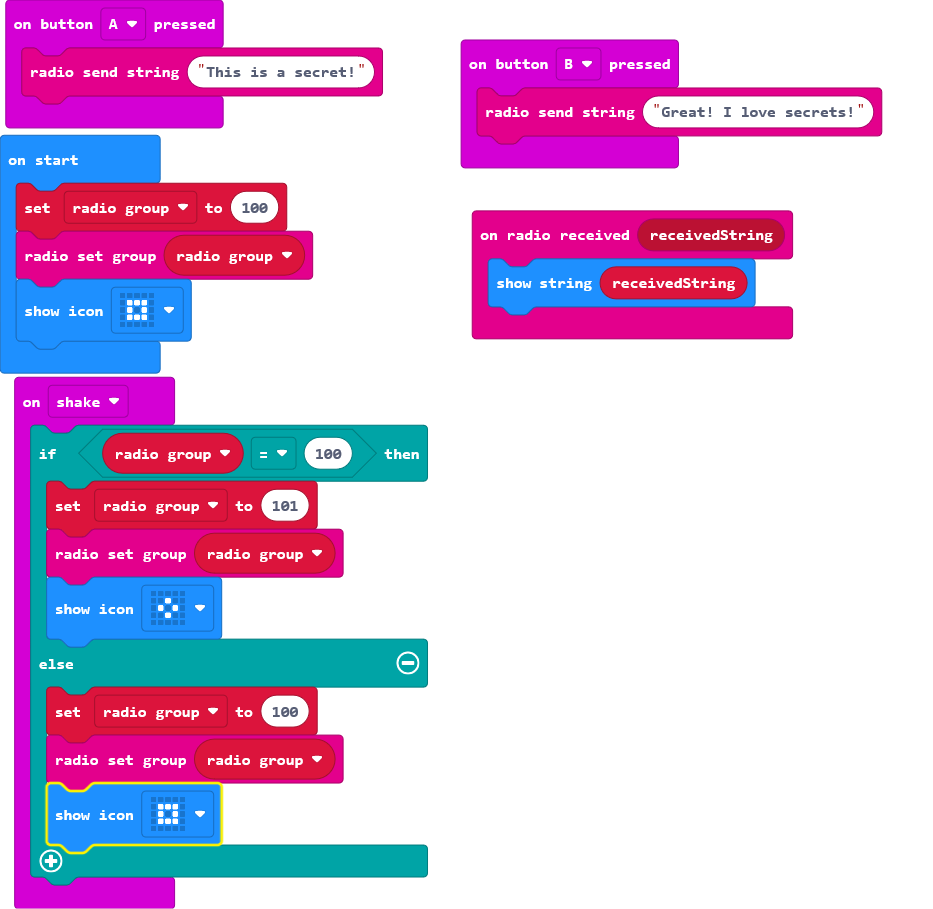
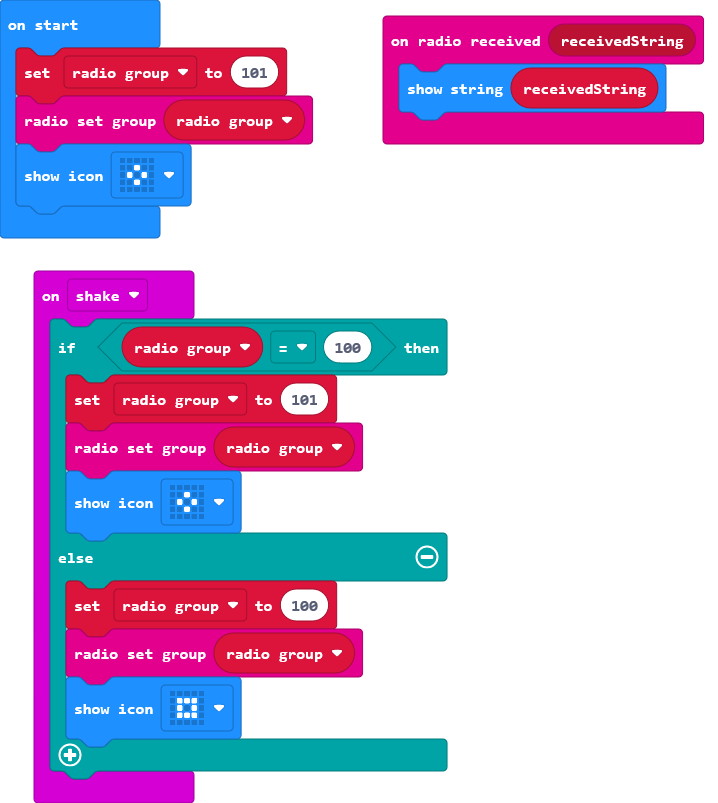
Update pxt.json, main.blocks, main.ts

diff --git a/main.ts b/main.ts
@@ -1,11 +1,5 @@
-input.onButtonPressed(Button.A, function () {
-    radio.sendString("This is a secret!")
-})
 radio.onReceivedString(function (receivedString) {
     basic.showString(receivedString)
-})
-input.onButtonPressed(Button.B, function () {
-    radio.sendString("Great! I love secrets!")
 })
 input.onGesture(Gesture.Shake, function () {
     if (radio_group == 100) {
@@ -19,6 +13,6 @@ input.onGesture(Gesture.Shake, function () {
     }
 })
 let radio_group = 0
-radio_group = 100
+radio_group = 101
 radio.setGroup(radio_group)
-basic.showIcon(IconNames.SmallSquare)
+basic.showIcon(IconNames.SmallDiamond)
